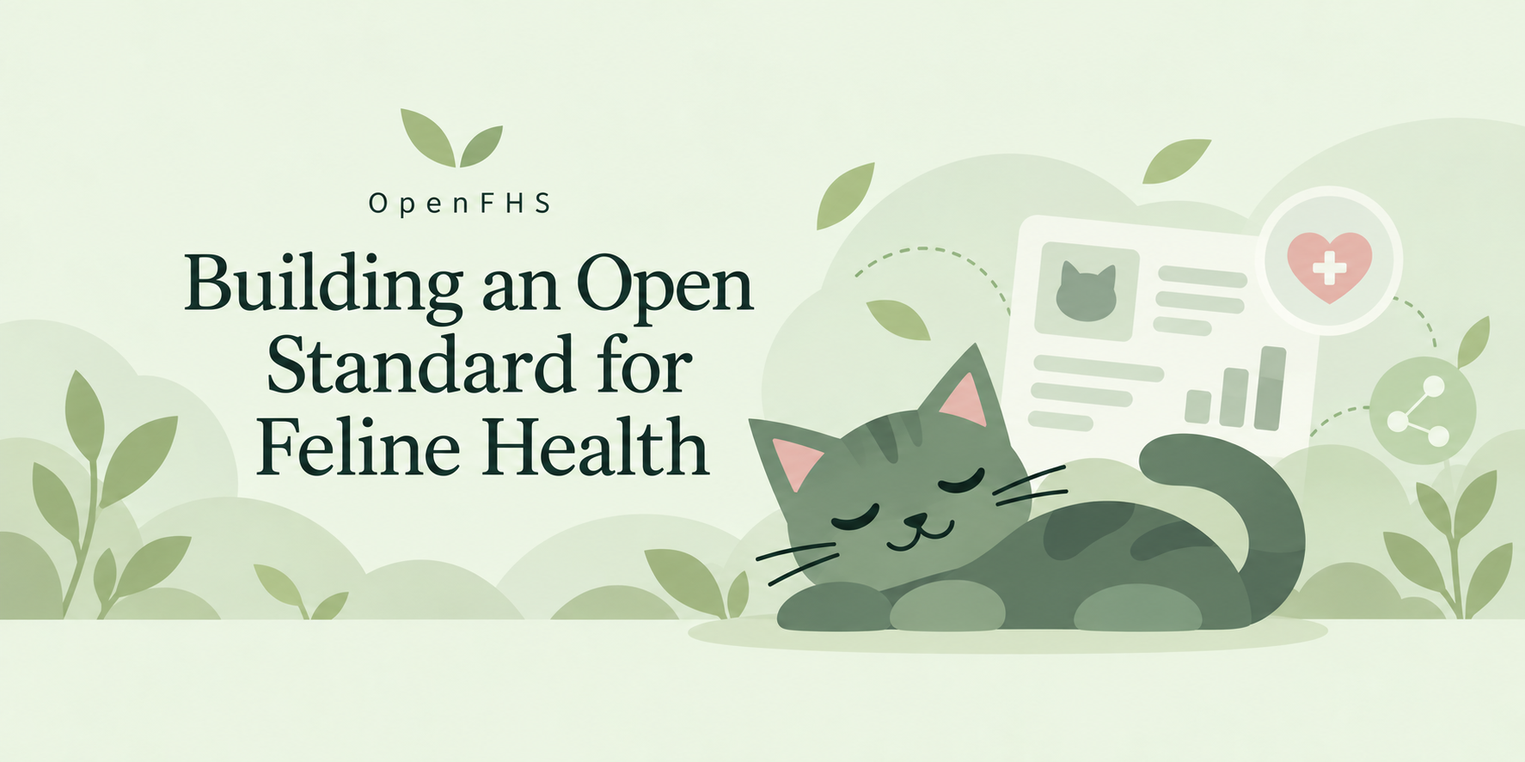
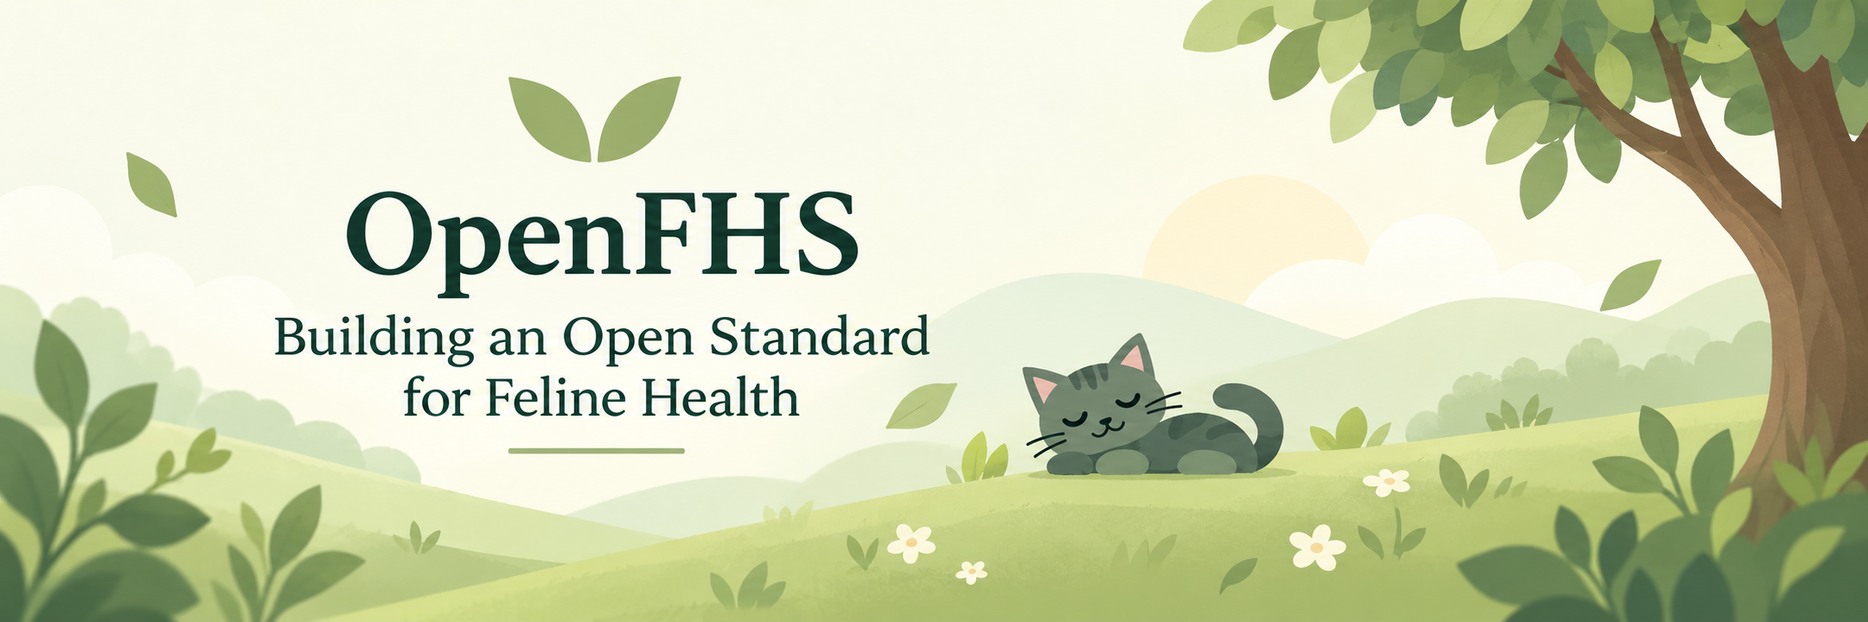
Fix theme contrast and export filenames for alpha.11

diff --git a/prototype/app.js b/prototype/app.js
@@ -193,7 +193,7 @@
     ['Solana','Solana network · native SOL','7fPcxzBcXRKyFncum97iKDQMwwyLFfbfmxR9zmnJBCB3'],
     ['Litecoin','Litecoin network','Lgfts881rffe1V91Q39XyeoBKBURFiKxW4']
   ];
-  function support(){return `<div class="card"><h2>Building an Open Standard for Feline Health</h2><p>OpenFHS began with Feline Hyperesthesia Syndrome and is growing toward an Open Feline Health Standard. Today this is a fictional-data observation prototype, not an adopted standard or active research study. Our aim is accessible care tools and carefully reviewed research. Community governance and real research services are still being developed.</p><h3>Support, only if you want to</h3><p>Voluntary contributions support development and the founder’s living costs. All diary features and privacy choices remain available without donating. Please put your own needs and your cat’s care first.</p><a class="support-link" href="https://ko-fi.com/openfhs" target="_blank" rel="noopener noreferrer" referrerpolicy="no-referrer">Support OpenFHS on Ko-fi 🐾 ↗</a><p class="hint">Opens Ko-fi in a new tab. Its own privacy and payment terms apply. No payment details are collected here, and no Ko-fi tracking scripts load in this diary. Contributions are not presented as charitable tax-deductible gifts.</p><details class="crypto-support"><summary>Other ways to support: cryptocurrency</summary><p class="hint">Optional and irreversible. Use the exact named network and compare the complete address in your wallet before sending. Public blockchains are not private. This app never connects to a wallet or asks for a recovery phrase.</p>${supportWallets.map(([name,network,address],i)=>`<section class="wallet-card"><h3>${name}</h3><p>${network}</p><code>${address}</code><button type="button" class="secondary" data-copy-wallet="${i}" aria-label="Copy ${name} address">Copy address</button></section>`).join('')}<p id="wallet-copy-status" role="status" aria-live="polite"></p></details><h3>Contact & contribute</h3><p><a href="mailto:openfhs@gmail.com">openfhs@gmail.com</a> · <a href="https://github.com/amgedi/OpenFHS" target="_blank" rel="noopener noreferrer">OpenFHS · GitHub ↗</a></p><p class="hint">For feedback, use fictional examples. Do not email private diary backups or videos. This inbox is not monitored for urgent veterinary care.</p><button type="button" class="secondary" id="feedback-template">Download a feedback template</button><p id="feedback-status" role="status"></p><h3>Help without spending anything</h3><p>Try fictional tasks, report confusing wording, review translations, or contribute accessibility feedback. There is no donation reminder or reward tied to your records.</p></div>`;}
+  function support(){return `<div class="card"><h2>Building an Open Standard for Feline Health</h2><p>OpenFHS began with Feline Hyperesthesia Syndrome and is growing toward an Open Feline Health Standard. Today this is a fictional-data observation prototype, not an adopted standard or active research study. Our aim is accessible care tools and carefully reviewed research. Community governance and real research services are still being developed.</p><h3>Support, only if you want to</h3><p>Voluntary contributions support development and the founder’s living costs. All diary features and privacy choices remain available without donating. Please put your own needs and your cat’s care first.</p><a class="support-link" href="https://ko-fi.com/openfhs" target="_blank" rel="noopener noreferrer" referrerpolicy="no-referrer">Support OpenFHS on Ko-fi 🐾 ↗</a> <a class="support-link" href="https://buymeacoffee.com/openfhs" target="_blank" rel="noopener noreferrer" referrerpolicy="no-referrer">Buy Me a Coffee ↗</a><p class="hint">These links open an external support website in a new tab. Its privacy and payment terms apply. This diary does not collect payment details or load payment tracking scripts. Contributions are not presented as charitable tax-deductible gifts.</p><details class="crypto-support"><summary>Other ways to support: cryptocurrency</summary><p class="hint">Optional and irreversible. Use the exact named network and compare the complete address in your wallet before sending. Public blockchains are not private. This app never connects to a wallet or asks for a recovery phrase.</p>${supportWallets.map(([name,network,address],i)=>`<section class="wallet-card"><h3>${name}</h3><p>${network}</p><code>${address}</code><button type="button" class="secondary" data-copy-wallet="${i}" aria-label="Copy ${name} address">Copy address</button></section>`).join('')}<p id="wallet-copy-status" role="status" aria-live="polite"></p></details><h3>Contact & contribute</h3><p><a href="mailto:openfhs@gmail.com">openfhs@gmail.com</a> · <a href="https://github.com/amgedi/OpenFHS" target="_blank" rel="noopener noreferrer">OpenFHS · GitHub ↗</a></p><p class="hint">For feedback, use fictional examples. Do not email private diary backups or videos. This inbox is not monitored for urgent veterinary care.</p><button type="button" class="secondary" id="feedback-template">Download a feedback template</button><p id="feedback-status" role="status"></p><h3>Help without spending anything</h3><p>Try fictional tasks, report confusing wording, review translations, or contribute accessibility feedback. There is no donation reminder or reward tied to your records.</p></div>`;}
 
   async function loadPrivacy(){
     const token=mediaPageToken;try{const videos=await M.list();if(token!==mediaPageToken||!$('#video-privacy-list'))return;
@@ -261,7 +261,7 @@
     helpForm?.addEventListener('submit',event=>{event.preventDefault();try{const values=Object.fromEntries(new FormData(helpForm)),report=F.supportReport(values);reviewedReport={...values,requestId:crypto.randomUUID()};$('#help-send-consent').checked=false;refreshSend();$('#help-preview').value=report;$('#help-email').href='mailto:openfhs@gmail.com?subject='+encodeURIComponent('OpenFHS: '+values.kind+' — '+values.area)+'&body='+encodeURIComponent(report);$('#help-error').hidden=true;$('#help-review').hidden=false;$('#help-review-title').focus();$('#help-review').scrollIntoView({block:'start',behavior:'auto'});}catch(error){$('#help-error').textContent=L.translate(error.message,X.settings.language);$('#help-error').hidden=false;}});
     $('#help-download')?.addEventListener('click',()=>{B.download($('#help-preview').value,'openfhs-support-report.txt','text/plain;charset=utf-8');$('#help-status').textContent='Report downloaded. Nothing was sent. Keep this copy if you want to return to it later.';});
     $('#feedback-template')?.addEventListener('click',()=>{
-      const content='OpenFHS feedback — v0.5.8-alpha.10\nContact: openfhs@gmail.com\nGitHub: https://github.com/amgedi/OpenFHS\n\nUse fictional examples only. No diary data is attached.\n\nDevice/browser (optional):\nWhat were you trying to do?\nSteps:\nExpected result:\nActual result:\nCould you recover?\nSuggested improvement:\n\nReview your text before emailing it. Nothing is sent automatically.\n';
+      const content='OpenFHS feedback — v0.5.8-alpha.11\nContact: openfhs@gmail.com\nGitHub: https://github.com/amgedi/OpenFHS\n\nUse fictional examples only. No diary data is attached.\n\nDevice/browser (optional):\nWhat were you trying to do?\nSteps:\nExpected result:\nActual result:\nCould you recover?\nSuggested improvement:\n\nReview your text before emailing it. Nothing is sent automatically.\n';
       B.download(content,'openfhs-feedback-template.txt','text/plain;charset=utf-8');$('#feedback-status').textContent='Template downloaded. Fill it in and review it before sending. No records were included.';
     });
     const filterRecords=()=>{const kind=$('#record-kind')?.value||'all',day=$('#record-date')?.value||'';let count=0;document.querySelectorAll('.record[data-record-kind]').forEach(row=>{row.hidden=!(kind==='all'||row.dataset.recordKind===kind)||!!day&&row.dataset.recordDay!==day;if(!row.hidden)count++;});if($('#record-filter-status'))$('#record-filter-status').textContent=count?count+' matching entries':'No entries match these filters.';};
@@ -395,7 +395,7 @@
         form.inert=true;
         box.innerHTML='<strong>This draft could not be read.</strong><p>Your saved draft has not been overwritten. Download a recovery copy before choosing to discard it.</p><div class="actions"><button type="button" data-recovery>Download recovery copy</button><button type="button" class="secondary" data-discard-broken>Discard unreadable draft</button></div>';
         const message=document.createElement('p');box.append(message);
-        box.querySelector('[data-recovery]').onclick=()=>{if(lastRaw===null){message.textContent='Browser storage could not be read. Keep this page open and check browser storage access.';return;}const url=URL.createObjectURL(new Blob([lastRaw],{type:'application/json'}));const link=document.createElement('a');link.href=url;link.download='openfhs-unreadable-draft.json';link.click();setTimeout(()=>URL.revokeObjectURL(url),3000);};
+        box.querySelector('[data-recovery]').onclick=()=>{if(lastRaw===null){message.textContent='Browser storage could not be read. Keep this page open and check browser storage access.';return;}const url=URL.createObjectURL(new Blob([lastRaw],{type:'application/json'}));const link=document.createElement('a');link.href=url;link.download=B.uniqueFilename('openfhs-unreadable-draft.json');link.click();setTimeout(()=>URL.revokeObjectURL(url),3000);};
         box.querySelector('[data-discard-broken]').onclick=()=>{try{clearDraft(form);box.remove();form.inert=false;bindDraft(form);}catch{message.textContent='The draft could not be discarded. It may have changed in another tab, or storage is unavailable.';}};
         return;
       }
@@ -450,7 +450,7 @@
     const content = readable ? F.reportHTML(data, { includeNotes: X.settings.reportNotes, media, language:X.settings.language, translate:value=>L.translate(value,X.settings.language) }) : json ? JSON.stringify(exported, null, 2) : C.exportCSV(data, kind);
     const blob = new Blob([content], { type: readable ? 'text/html;charset=utf-8' : json ? 'application/json' : 'text/csv;charset=utf-8' });
     const url = URL.createObjectURL(blob), link = document.createElement('a'); link.href = url;
-    link.download = 'openfhs-fictional-' + (json ? 'technical' : kind) + '-' + today + (readable ? '.html' : json ? '.json' : '.csv');
+    link.download = B.uniqueFilename('openfhs-fictional-' + (json ? 'technical' : kind) + (readable ? '.html' : json ? '.json' : '.csv'));
     document.body.append(link); link.click(); link.remove(); setTimeout(() => URL.revokeObjectURL(url), 3000);
     notice(readable ? 'Readable report prepared. Open the downloaded file to read, print, or save as PDF.' : 'Technical export prepared. Video files are kept separate; JSON includes their metadata and permission records.');
   }

diff --git a/prototype/languages.js b/prototype/languages.js
@@ -155,5 +155,6 @@ window.OpenFHSLanguages=(()=>{
  }
  function hasTranslation(value,language){const index=codes.indexOf(language);return index>=0&&rows.some(row=>row[0].toLowerCase()===String(value).toLowerCase()&&typeof row[index]==='string'&&row[index].trim());}
  rows.push(...[["Breezy park","Parque con brisa","Parc au vent doux","微风公园","حديقة بنسيم","Esintili park"],["Pixel arcade (8-bit)","Salón arcade (8 bits)","Arcade pixelisée (8 bits)","像素街机（8位）","صالة البكسل (8 بت)","Piksel oyun salonu (8 bit)"],["Time difference from UTC (optional)","Diferencia horaria con UTC (opcional)","Décalage par rapport à UTC (facultatif)","与UTC的时差（可选）","فرق التوقيت عن UTC (اختياري)","UTC ile saat farkı (isteğe bağlı)"],["Leave blank if unsure","Deja en blanco si no lo sabes","Laissez vide en cas de doute","不确定请留空","اتركه فارغًا إن لم تكن متأكدًا","Emin değilseniz boş bırakın"],["Add a fictional cat","Añadir un gato ficticio","Ajouter un chat fictif","添加虚构猫咪","أضف قطًا خياليًا","Kurgusal bir kedi ekle"],["You can skip this. It means how far the local clock was ahead of or behind UTC when the episode happened. For example, MDT is -06:00 and MST is -07:00. Leave it blank if unsure; the app will not guess.","Puedes omitirlo. Indica cuánto adelantaba o atrasaba la hora local respecto a UTC durante el episodio. Por ejemplo, MDT es -06:00 y MST es -07:00. Si no lo sabes, déjalo en blanco; la aplicación no lo deducirá.","Vous pouvez passer cette question. Il s’agit de l’avance ou du retard de l’heure locale sur UTC lors de l’épisode. Par exemple, MDT correspond à -06:00 et MST à -07:00. En cas de doute, laissez vide ; l’application ne devinera pas.","此项可以跳过。它表示发作时当地时间比UTC早或晚多少。例如，MDT为-06:00，MST为-07:00。不确定请留空；应用不会猜测。","يمكنك تخطي هذا. يعني مقدار تقدم أو تأخر الساعة المحلية عن UTC وقت النوبة. مثلًا، MDT هو -06:00 وMST هو -07:00. اتركه فارغًا إن لم تكن متأكدًا؛ لن يخمّن التطبيق.","Bunu atlayabilirsiniz. Olay sırasında yerel saatin UTC’den ne kadar ileride veya geride olduğunu belirtir. Örneğin MDT -06:00, MST -07:00’dır. Emin değilseniz boş bırakın; uygulama tahminde bulunmaz."]]);
+ rows.push(["These links open an external support website in a new tab. Its privacy and payment terms apply. This diary does not collect payment details or load payment tracking scripts.","Estos enlaces abren un sitio externo de apoyo en otra pestaña. Se aplican sus condiciones de privacidad y pago. Este diario no recopila datos de pago ni carga scripts de seguimiento de pagos.","Ces liens ouvrent un site de soutien externe dans un nouvel onglet. Ses conditions de confidentialité et de paiement s’appliquent. Ce journal ne recueille pas de données de paiement et ne charge pas de scripts de suivi des paiements.","这些链接会在新标签页中打开外部支持网站，并适用该网站的隐私和付款条款。本日记不会收集付款信息或加载付款跟踪脚本。","تفتح هذه الروابط موقع دعم خارجيًا في علامة تبويب جديدة. تسري شروط الخصوصية والدفع الخاصة به. لا تجمع هذه اليوميات تفاصيل الدفع ولا تحمّل نصوص تتبع الدفع.","Bu bağlantılar yeni sekmede harici bir destek sitesi açar. Sitenin gizlilik ve ödeme koşulları geçerlidir. Bu günlük ödeme bilgilerini toplamaz veya ödeme izleme betikleri yüklemez."]);
  return {apply,translate,date,hasTranslation};
 })();

diff --git a/prototype/backup.js b/prototype/backup.js
@@ -1,7 +1,14 @@
 window.OpenFHSBackup = (()=>{
  const LIMIT=150*1024*1024;
  const hash=async bytes=>Array.from(new Uint8Array(await crypto.subtle.digest('SHA-256',bytes)),b=>b.toString(16).padStart(2,'0')).join('');
- function download(content,name,type='application/json'){const url=URL.createObjectURL(new Blob([content],{type}));const a=document.createElement('a');a.href=url;a.download=name;document.body.append(a);a.click();a.remove();setTimeout(()=>URL.revokeObjectURL(url),10000);}
+ let downloadSequence=0;
+ function uniqueFilename(name){
+  const dot=name.lastIndexOf('.'),stem=dot>0?name.slice(0,dot):name,extension=dot>0?name.slice(dot):'';
+  const stamp=new Date().toISOString().replace(/[:.]/g,'-');
+  const random=new Uint32Array(1);crypto.getRandomValues(random);
+  return `${stem}-${stamp}-${(++downloadSequence).toString(36)}-${random[0].toString(36)}${extension}`;
+ }
+ function download(content,name,type='application/json'){const url=URL.createObjectURL(new Blob([content],{type}));const a=document.createElement('a');a.href=url;a.download=uniqueFilename(name);document.body.append(a);a.click();a.remove();setTimeout(()=>URL.revokeObjectURL(url),10000);}
  async function create(state,preferences,media,drafts=[]){
   validateDrafts(drafts,state);
   if(media.length>200||['animals','baselines','episodes','daily_reports'].some(k=>state[k].length>10000))throw Error('This diary exceeds the prototype backup record limit. Export technical records and keep original videos; larger archival backups need a dedicated release.');
@@ -108,5 +115,5 @@ window.OpenFHSBackup = (()=>{
   // Once committed, cleanup failure must never roll back saved media.
   if(storage)try{storage.removeItem(JOURNAL);}catch{}
  }
- return {create,inspect,prepareImport,commitImport,recoverImport,recoveryStatus,download};
+ return {create,inspect,prepareImport,commitImport,recoverImport,recoveryStatus,download,uniqueFilename};
 })();

diff --git a/prototype/index.html b/prototype/index.html
@@ -44,7 +44,7 @@
       <button data-page="videos" class="nav-button">Video library <span>06</span></button>
       <button data-page="guide" class="nav-button">Your next steps <span>08</span></button>
     </nav>
-    <div class="sidebar-utilities"><button class="settings-gear secondary" data-page="settings" aria-label="Settings"><svg viewBox="0 0 24 24" aria-hidden="true"><path d="M9 3h6l1 3 3 1 2 5-2 5-3 1-1 3H9l-1-3-3-1-2-5 2-5 3-1Z"/><circle cx="12" cy="12" r="4"/></svg><span>Settings & privacy</span></button><button class="help-nav secondary" data-page="help"><svg viewBox="0 0 24 24" aria-hidden="true"><circle cx="12" cy="12" r="9"/><path d="M9 9a3 3 0 0 1 6 0c0 2-3 2-3 4M12 16v1"/></svg><span>Help &amp; support</span></button></div><div class="sidebar-note"><span class="status-dot"></span> Local practice prototype<p>A small first step toward better feline research.</p><small>v0.5.8-alpha.10 · Fictional data only</small></div>
+    <div class="sidebar-utilities"><button class="settings-gear secondary" data-page="settings" aria-label="Settings"><svg viewBox="0 0 24 24" aria-hidden="true"><path d="M9 3h6l1 3 3 1 2 5-2 5-3 1-1 3H9l-1-3-3-1-2-5 2-5 3-1Z"/><circle cx="12" cy="12" r="4"/></svg><span>Settings & privacy</span></button><button class="help-nav secondary" data-page="help"><svg viewBox="0 0 24 24" aria-hidden="true"><circle cx="12" cy="12" r="9"/><path d="M9 9a3 3 0 0 1 6 0c0 2-3 2-3 4M12 16v1"/></svg><span>Help &amp; support</span></button></div><div class="sidebar-note"><span class="status-dot"></span> Local practice prototype<p>A small first step toward better feline research.</p><small>v0.5.8-alpha.11 · Fictional data only</small></div>
   </aside>
   <main>
     <div class="practice-banner"><strong>Practice mode</strong><span>Use fictional cats only. Entries stay in this browser; clearing browser data may erase them.</span></div>

diff --git a/prototype/styles.css b/prototype/styles.css
@@ -249,3 +249,11 @@ html[data-theme=arcade] .card,html[data-theme=arcade] .metric{box-shadow:4px 4px
 html[data-theme=arcade] .avatar-backdrop{fill:#38204c}
 html[data-theme=arcade] .scenic-dialog{--sky:#140c28;--paper:#140c28;--hill:#d63845;--hill-back:#6236a0;--sun:#ffe76b;--tree:#ffbc38}
 html[data-theme] .overview-metrics .metric{border-top-color:var(--green)}
+
+/* Help and feedback surfaces use paired theme colors, including dark arcade. */
+html[data-theme] .callout,html[data-theme] .notice{background:var(--light);color:var(--ink);border-color:var(--line)}
+html[data-theme] dialog:not(.scenic-dialog):not(.spotlight-tour){background:var(--paper);color:var(--ink)}
+html[data-theme] .error{background:var(--paper);color:var(--ink);border-color:var(--green)}
+.cat-select-control{display:flex;align-items:center;min-height:0}
+.cat-select-control #selected-avatar,.cat-select-control #selected-avatar svg{display:block}
+@media(forced-colors:active){html[data-theme] .callout,html[data-theme] .notice,html[data-theme] .error,html[data-theme] dialog:not(.scenic-dialog):not(.spotlight-tour){background:Canvas;color:CanvasText;border-color:CanvasText}}

diff --git a/desktop/OpenFHS.cs b/desktop/OpenFHS.cs
@@ -148,7 +148,7 @@ internal static class OpenFHS
         string headers = "HTTP/1.1 " + status + (status == 200 ? " OK" : " Error") + "\r\n" +
             "Content-Type: " + contentType + "\r\nContent-Length: " + bytes.Length + "\r\n" +
             "Connection: close\r\nCache-Control: no-store\r\nX-Content-Type-Options: nosniff\r\n" +
-            "X-OpenFHS-Build: 0.5.8-alpha.10-offline\r\n" +
+            "X-OpenFHS-Build: 0.5.8-alpha.11-offline\r\n" +
             "Content-Security-Policy: default-src 'self'; script-src 'self'; style-src 'self'; img-src 'self' data:; media-src 'self' blob:; connect-src 'none'; object-src 'none'; base-uri 'none'; frame-ancestors 'none'\r\n\r\n";
         byte[] encoded = Encoding.ASCII.GetBytes(headers); stream.Write(encoded, 0, encoded.Length);
         if (!head) stream.Write(bytes, 0, bytes.Length);

diff --git a/docs/release-notes.md b/docs/release-notes.md
@@ -1,4 +1,4 @@
-# OpenFHS v0.5.8-alpha.10 — Tester Alpha
+# OpenFHS v0.5.8-alpha.11 — Tester Alpha
 
 **Fictional-data-only usability pre-release.**
 
@@ -8,6 +8,14 @@ OpenFHS began with Feline Hyperesthesia Syndrome and is growing toward an Open F
 
 Approximately five people testing usability with invented cats and events. **Do not enter real medical or private information.** This is not research participation. OpenFHS does not diagnose FHS or other conditions, provide veterinary advice or a veterinary service, or claim clinical validation.
 
+## Changes since alpha.10
+
+- Theme-aware help, notification, error and dialog surfaces fix unreadable text in dark palettes.
+- The cat selector avatar is vertically centered.
+- Downloads use UTC timestamps and unique suffixes to avoid overwriting earlier copies, including repeated exports in the same second. Complete backup still saves all cats, drafts and clips in one file.
+- Updated main banner and optional GitHub Sponsors, Ko-fi and Buy Me a Coffee links.
+- No diary schema or import-format changes. Existing records remain compatible.
+
 ## Included
 
 Guided/full episode and daily forms; separate cat profiles; local draft recovery; correction history; JSON/CSV and readable reports; local practice clips; complete backups imported as distinct copies; keyboard and reduced-motion support; five translation previews.
@@ -16,9 +24,9 @@ This candidate adds clearer cat/date/entry identification during draft recovery,
 
 ## Downloads and running
 
-- `OpenFHS-Source-0.5.8-alpha.10.zip`: extract, install Node 22+ with npm, run `npm start`, open http://127.0.0.1:4317. No dependency installation required.
-- `OpenFHS-Offline-0.5.8-alpha.10.exe`: Windows unsigned local launcher. Close older OpenFHS tray apps first. Opens the default browser; use tray Exit to stop it. It uses separate browser storage from the Node preview. Do not bypass a security warning you do not understand.
-- `OpenFHS-Tester-Alpha-0.5.8-alpha.10.zip`: static hosting payload, not a Windows installer. No approved hosted URL exists yet.
+- `OpenFHS-Source-0.5.8-alpha.11.zip`: extract, install Node 22+ with npm, run `npm start`, open http://127.0.0.1:4317. No dependency installation required.
+- `OpenFHS-Offline-0.5.8-alpha.11.exe`: Windows unsigned local launcher. Close older OpenFHS tray apps first. Opens the default browser; use tray Exit to stop it. It uses separate browser storage from the Node preview. Do not bypass a security warning you do not understand.
+- `OpenFHS-Tester-Alpha-0.5.8-alpha.11.zip`: static hosting payload, not a Windows installer. The supplied Netlify site returned a site-not-found page during verification; use the download packages until hosting is verified.
 - `PROVENANCE.json` maps source and static files to SHA-256 hashes; `SHA256SUMS.txt` covers the release downloads. Hashes detect changes but are not publisher signatures.
 
 Use `START-HERE.md` / docs/tester-alpha.md for a 15–20 minute test. The feedback template is included. Back up any existing fictional diary before testing a new build; retain original clips.

diff --git a/README.md b/README.md
@@ -6,7 +6,7 @@
 
 OpenFHS began with Feline Hyperesthesia Syndrome and is growing toward an Open Feline Health Standard. It is experimental open-source software for structured feline-health observation, designed to preserve uncertainty, missingness, provenance, corrections and observation coverage.
 
-**0.5.8-alpha.10 — fictional-data-only usability candidate for about five testers.** Do not enter real medical or private information. OpenFHS is not diagnostic AI, veterinary advice, a veterinary service, clinically validated software, or a research study.
+**0.5.8-alpha.11 — fictional-data-only usability candidate for about five testers.** Do not enter real medical or private information. OpenFHS is not diagnostic AI, veterinary advice, a veterinary service, clinically validated software, or a research study.
 
 ## Why this exists
 
@@ -35,7 +35,7 @@ From source, with Node.js 22+ and npm:
 npm start
 ```
 
-Open **http://127.0.0.1:4317**. No dependencies need installing. Keep the terminal open; Ctrl+C stops it. Windows users can use `Start OpenFHS.cmd`. A versioned unsigned Windows launcher is prepared separately; see the tester instructions before running it. No hosted tester URL has been approved.
+Open **http://127.0.0.1:4317**. No dependencies need installing. Keep the terminal open; Ctrl+C stops it. Windows users can use `Start OpenFHS.cmd`. A versioned unsigned Windows launcher is prepared separately; see the tester instructions before running it. The supplied Netlify address is still being verified; use the versioned GitHub downloads for now.
 
 ## Your local data
 
@@ -59,4 +59,4 @@ The longer-term aim is interoperable observation tools and carefully reviewed fe
 
 [Data specification](docs/data-specification-v0.1.md) · [Known limitations and release notes](docs/release-notes.md) · [Release-readiness evidence](docs/release-readiness.md)
 
-[GNU AGPLv3](LICENSE) (AGPL-3.0-only) covers OpenFHS software and documentation and allows commercial use subject to its terms. See [project identity and notices](NOTICE.md). It grants no rights to anyone's private records or videos. Optional [support on Ko-fi](https://ko-fi.com/openfhs) does not affect diary features or privacy choices.
+[GNU AGPLv3](LICENSE) (AGPL-3.0-only) covers OpenFHS software and documentation and allows commercial use subject to its terms. See [project identity and notices](NOTICE.md). It grants no rights to anyone's private records or videos. Optional [GitHub Sponsors](https://github.com/sponsors/amgedi), [Ko-fi](https://ko-fi.com/openfhs) or [Buy Me a Coffee](https://buymeacoffee.com/openfhs) support does not affect diary features or privacy choices.

diff --git a/docs/prototype-scope.md b/docs/prototype-scope.md
@@ -1,6 +1,6 @@
 # Prototype implementation and limits
 
-Application version: `0.5.8-alpha.10`, 28 September 2026. The existing diary-record schema stays `0.1.0-prototype` for compatibility. This is a narrow interaction prototype, not the complete Data Specification v0.1 and not pilot-ready research infrastructure.
+Application version: `0.5.8-alpha.11`, 28 September 2026. The existing diary-record schema stays `0.1.0-prototype` for compatibility. This is a narrow interaction prototype, not the complete Data Specification v0.1 and not pilot-ready research infrastructure.
 
 See [release notes](release-notes.md) for the current candidate. Its local privacy preferences, complete backup/copy-import, avatars and language previews do not establish participant readiness.
 

diff --git a/docs/release-readiness.md b/docs/release-readiness.md
@@ -1,4 +1,4 @@
-# Testing status: OpenFHS 0.5.8-alpha.10
+# Testing status: OpenFHS 0.5.8-alpha.11
 
 This historical snapshot is an experimental fictional-data usability alpha. Internal release-engineering logs have been removed. See the current main branch for public testing status and the release downloads for source provenance and checksums.
 
